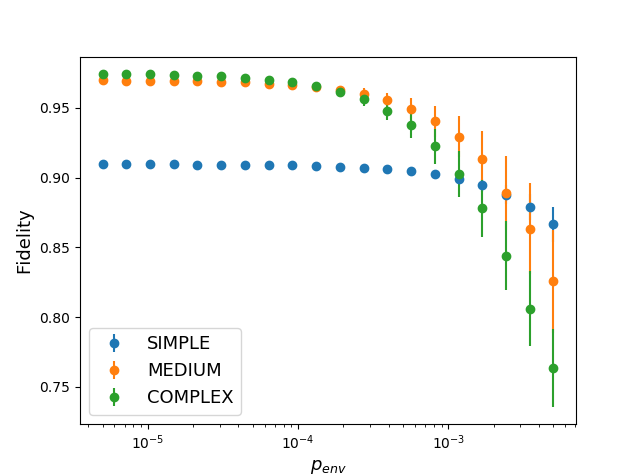
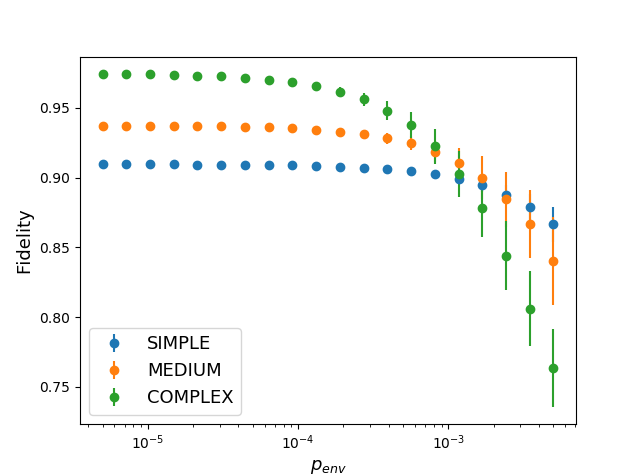
Gra

diff --git a/graphs/protocols_plot.py b/graphs/protocols_plot.py
@@ -1,12 +1,12 @@
 import matplotlib.pyplot as plt
 import numpy as np
 
-SIMPLE_fidelity = np.load("../decomposition/data/SIMPLE_fidelity_BK.npy")
-SIMPLE_steps = np.load("../decomposition/data/SIMPLE_steps_BK.npy")
-MEDIUM_fidelity = np.load("../decomposition/data/MEDIUM_fidelity_BK.npy")
-MEDIUM_steps = np.load("../decomposition/data/MEDIUM_steps_BK.npy")
-COMPLEX_fidelity = np.load("../decomposition/data/COMPLEX_fidelity_BK.npy")
-COMPLEX_steps = np.load("../decomposition/data/COMPLEX_steps_BK.npy")
+SIMPLE_fidelity = np.load("../decomposition/data/SIMPLE_fidelity.npy")
+SIMPLE_steps = np.load("../decomposition/data/SIMPLE_steps.npy")
+MEDIUM_fidelity = np.load("../decomposition/data/MEDIUM2_fidelity.npy")
+MEDIUM_steps = np.load("../decomposition/data/MEDIUM2_steps.npy")
+COMPLEX_fidelity = np.load("../decomposition/data/COMPLEX_fidelity.npy")
+COMPLEX_steps = np.load("../decomposition/data/COMPLEX_steps.npy")
 p_env = np.load("../decomposition/data/p_env.npy")
 
 
